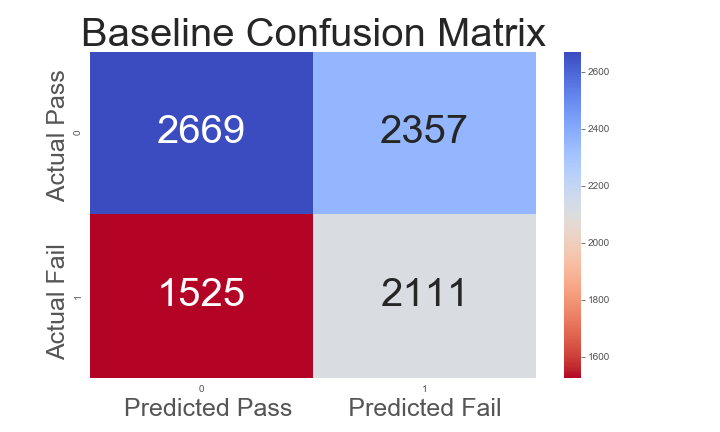
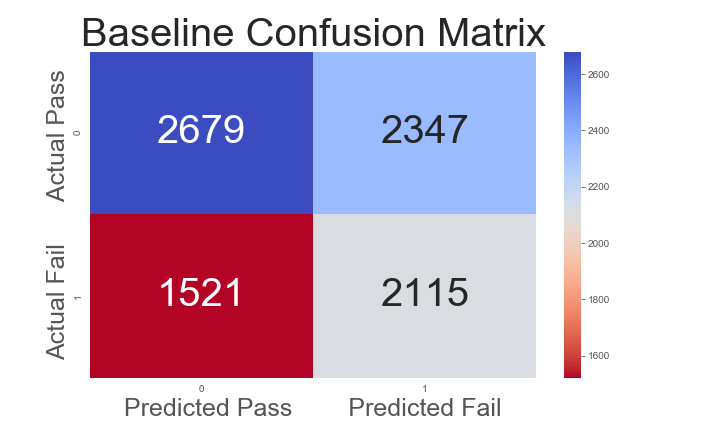
update readme

diff --git a/README.md b/README.md
@@ -19,7 +19,7 @@ The goal of this project is to use behavior and demographics to predict whether 
 
 ## Results
 
-After splitting the data based on time and using the first 1/4 of the course time, a random forest classifier provides a true positive rate of ~0.73. This means that about 73% of the students who will actually fail are predicted to do so by the model. This is significantly better than the baseline true positive rate of ~0.38.
+After splitting the data based on time and using the first 1/4 of the course time, a random forest classifier provides a true positive rate of ~0.73. This means that about 73% of the students who will actually fail are predicted to do so by the model. This is significantly better than the baseline true positive rate of ~0.58.
 
 ![classifier roc curve](reports/figures/rf_roc.png "Classifier ROC Curve")
 
@@ -87,7 +87,7 @@ The target for my model was:
 
 
 ## Modeling process
-My primary modeling concerns were evaluating the classifier based on the true positive rate (recall) and ROC AUC score. A strong true positive rate directly minimizes false negatives, which in this situation are a "worst case scenario" (in my model, "positive" is defined as non-completion). ROC AUC was chosen because it provides a clear general sense of how a binary classifier performs thoughout the range of prediction thresholds. I also sought a model with strong inferential characteristics. Knowing why a student is predicted not to complete a course would be important in designing an intervention. I began by testing numerous classifier types to determine which provided the best out-of-the-box performance. The classifiers tested were:
+My primary modeling concerns were evaluating the classifier based on the true positive rate (recall) and ROC AUC score. A strong true positive rate directly minimizes false negatives, which in this situation are a "worst case scenario" (in my model, "positive" is defined as non-completion). ROC AUC was chosen because it provides a clear general sense of how a binary classifier performs throughout the range of prediction thresholds. I also sought a model with strong inferential characteristics. Knowing why a student is predicted not to complete a course would be important in designing an intervention. I began by testing numerous classifier types to determine which provided the best out-of-the-box performance. The classifiers tested were:
 
 * Logistic Regression
 * Random Forest
@@ -105,9 +105,9 @@ The final classifier was evaluated using the ROC AUC score and the true positive
 
 <img src="reports/figures/rf_conf_mat.png" width=425/><img src="reports/figures/bl_conf_mat.png" width=425/>
 
-After evaluating classifier performance using my three sets of data (1/4,1/2, or 3/4 of the course completed as measured in days since the course opened), I determined that model performance increased only a small amout as more data were used. Since the potential benefits of intervening earlier are likely higher, I decided to use only the first 1/4 of the data for my final classifier.
+After evaluating classifier performance using my three sets of data (1/4,1/2, or 3/4 of the course completed as measured in days since the course opened), I determined that model performance increased only a small amount as more data were used. Since the potential benefits of intervening earlier are likely higher, I decided to use only the first 1/4 of the data for my final classifier.
 
-Though the strength of the predictions relies on the use of many features (as detemined by recursive feature elimination with cross-validation), the following features were determined to contribute most to predictions of non-completion:
+Though the strength of the predictions relies on the use of many features (as determined by recursive feature elimination with cross-validation), the following features were determined to contribute most to predictions of non-completion:
 
 Feature | Importance
 --- | ---
